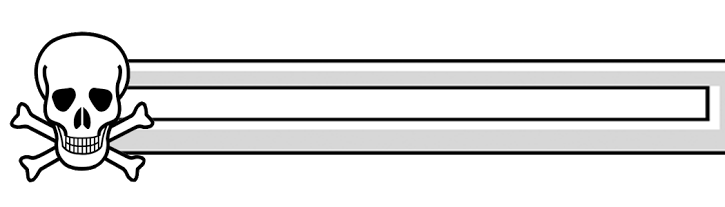
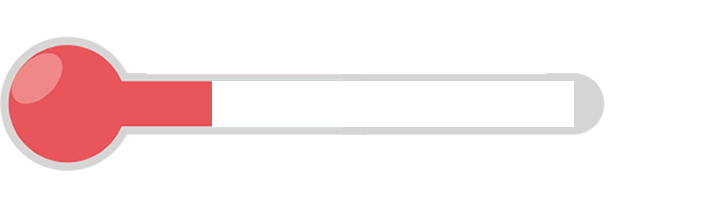
Concerto na barra

Changed region(s): [[0.0, 0.1449, 1.0, 0.8986]]

diff --git a/Assets/Scripts/OpcoesScript.cs b/Assets/Scripts/OpcoesScript.cs
@@ -4,11 +4,11 @@ using System.Collections;
 public class OpcoesScript : MonoBehaviour {
 	
 	public static int score = 0;
-
+	
 	public static int vida = 3;
-	public Texture Sangue,Contorno;
+	public Texture Temperatura,Contorno;
 	public int VidaCheia = 100;
-
+	
 	// Use this for initialization
 	void Start () {
 		vida = VidaCheia;
@@ -19,15 +19,15 @@ public class OpcoesScript : MonoBehaviour {
 		if (vida >= VidaCheia) {
 			vida = VidaCheia;
 		} else if (vida <= 0) {
-			Application.LoadLevel(4);
+			//Application.LoadLevel(4);
 		}
 	}
-
+	
 	void OnGUI(){
-		//GUI.Label (new Rect(10.0f,10.0f,105,20), "Pontuaçao: "+ score.ToString());
+		GUI.Label (new Rect(10.0f,10.0f,105,20), "Pontuaçao: "+ score.ToString());
 		//GUI.Label (new Rect (10.0f, 30.0f, 70, 20), "Vidas: " + vida.ToString ());
-
-		GUI.DrawTexture (new Rect (Screen.width / 25, Screen.height / 15, Screen.width / 5.5f/VidaCheia*vida, Screen.height / 25), Sangue);
-		GUI.DrawTexture (new Rect (Screen.width / 40, Screen.height / 40, Screen.width / 5, Screen.height / 8), Contorno);
+		
+		GUI.DrawTexture (new Rect (Screen.width / 40, Screen.height / 25, Screen.width / 8.3f/VidaCheia*vida, Screen.height / 48), Temperatura);
+		GUI.DrawTexture (new Rect (Screen.width / 100, Screen.height / 100, Screen.width / 6, Screen.height / 12), Contorno);
 	}
 }

diff --git a/Assets/Scripts/Level/Level1.cs b/Assets/Scripts/Level/Level1.cs
@@ -28,7 +28,7 @@ public class Level1 : MonoBehaviour {
 	void spawnEnemy() {
 		lastSpawn = timeToSpawn;
 
-		Vector3 pos = new Vector3 (0, 0, 0);
+		Vector3 pos = new Vector3 (38, 2, 0);
 		Instantiate (enemyPrefab, pos, Quaternion.identity);
 	}
 
